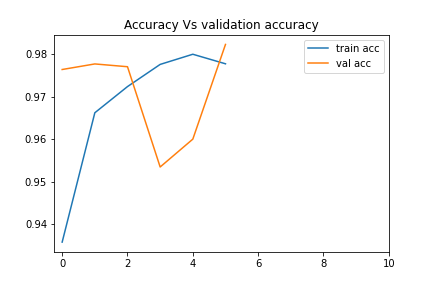
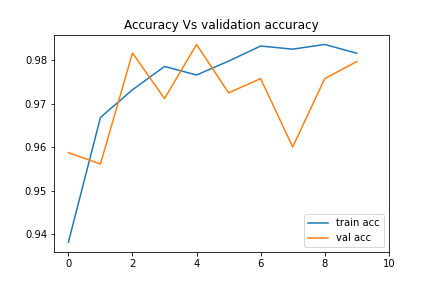
Add files via upload

diff --git a/Project/Final Model/InceptionV3.py b/Project/Final Model/InceptionV3.py
@@ -45,7 +45,7 @@ checkpointer = tf.keras.callbacks.ModelCheckpoint('WeedDetectionModelV3.h5', sav
 
 callbacks = [
     tf.keras.callbacks.TensorBoard(log_dir = 'logs'),
-    tf.keras.callbacks.EarlyStopping(patience = 5, monitor = 'val_loss'),
+    tf.keras.callbacks.EarlyStopping(patience = 10, monitor = 'val_loss'),
     checkpointer]
 
 result = model.fit(training_set, validation_data = test_set, epochs = 10, 
